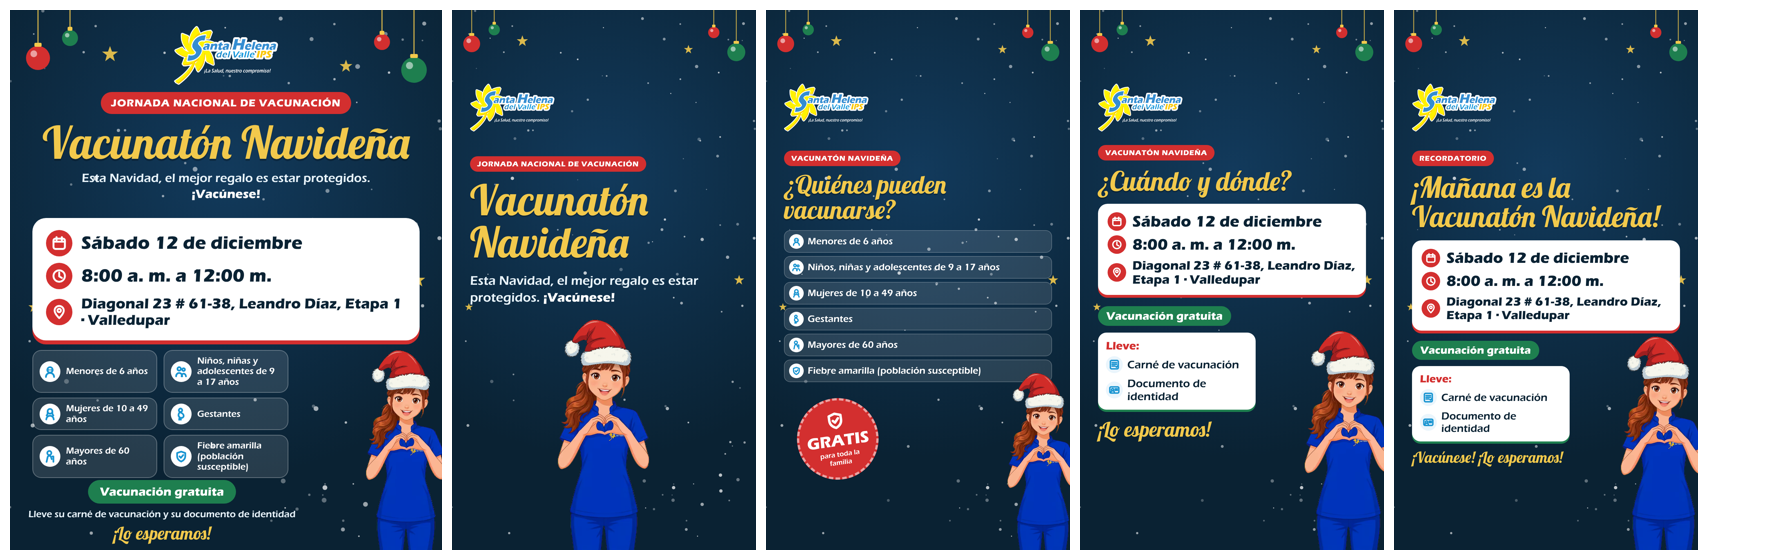
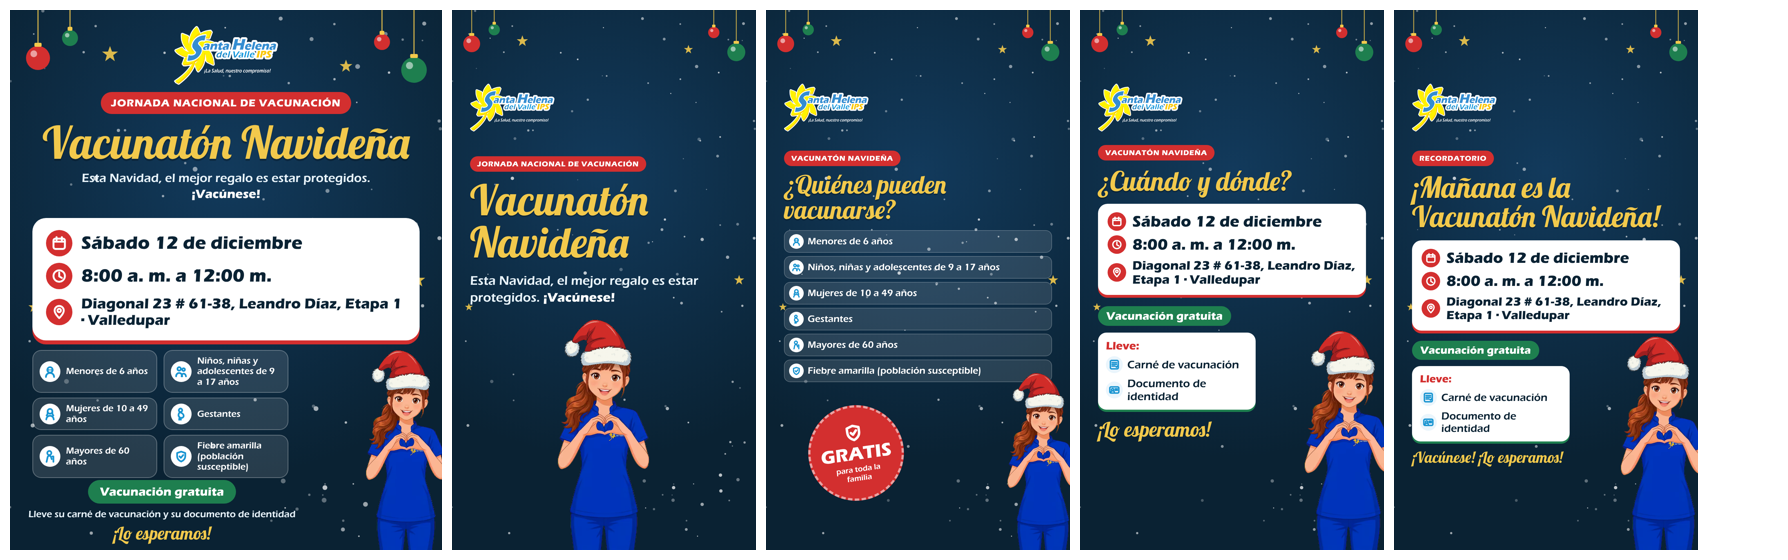
Vacunatón: sello GRATIS más grande y centrado en el espacio libre
Claude-Session: https://claude.ai/code/session_01KgBCaN2Nb7mn6jAyyriR7q

Changed region(s): [[0.4306, 0.6982, 0.5229, 0.9107]]

diff --git a/entregas/creativo-instagram/2026-11-26-vacunaton-navidena/fuente/piezas.html b/entregas/creativo-instagram/2026-11-26-vacunaton-navidena/fuente/piezas.html
@@ -42,8 +42,8 @@ h1{font-family:"Lobster";font-weight:400;color:var(--tit);line-height:1;text-sha
 .gi2{flex:none;width:60px;height:60px;border-radius:50%;background:#EAF5FC;display:flex;align-items:center;justify-content:center}
 .sello{position:absolute;width:330px;height:330px;border-radius:50%;background:var(--chip);color:var(--chipT);display:flex;flex-direction:column;align-items:center;justify-content:center;text-align:center;border:8px dashed rgba(255,255,255,.55);transform:rotate(-8deg)}
 .B .sello{border-color:rgba(10,34,51,.25)}
-.sello b{font-family:"Eras Bold ITC";font-weight:400;font-size:58px;line-height:1;margin-top:6px}
-.sello span{font-size:25px;width:220px;line-height:1.15;margin-top:6px}
+.sello b{font-family:"Eras Bold ITC";font-weight:400;font-size:66px;line-height:1;margin-top:6px}
+.sello span{font-size:28px;width:250px;line-height:1.15;margin-top:6px}
 .marca{position:absolute;opacity:.07}
 </style></head><body>
 <section id="pz"></section>
@@ -115,7 +115,7 @@ if(P==='h2'){
  h+=`<div style="position:absolute;left:64px;right:64px;top:500px"><span class="enc">Vacunatón Navideña</span>
      <h1 style="font-size:${V==="A"?90:76}px;margin:20px 0 28px">¿Quiénes pueden vacunarse?</h1>
      ${gruposHTML(34,952,1)}</div>`;
- h+=`<div class="sello" style="left:110px;bottom:250px;width:290px;height:290px"><svg width="70" height="70" viewBox="0 0 40 40" stroke="currentColor" ${S}><path d="M20 5l12 4v9c0 8-5 13-12 16C13 31 8 26 8 18V9z"/><path d="M15 19l4 4 7-8"/></svg><b>GRATIS</b><span>para toda la familia</span></div>`;
+ h+=`<div class="sello" style="left:150px;bottom:175px;width:340px;height:340px"><svg width="70" height="70" viewBox="0 0 40 40" stroke="currentColor" ${S}><path d="M20 5l12 4v9c0 8-5 13-12 16C13 31 8 26 8 18V9z"/><path d="M15 19l4 4 7-8"/></svg><b>GRATIS</b><span>para toda la familia</span></div>`;
  h+=`<img class="hel" src="img/helenita-navidad.png" style="right:-30px;bottom:0;height:630px">`;
 }
 if(P==='h3'){
